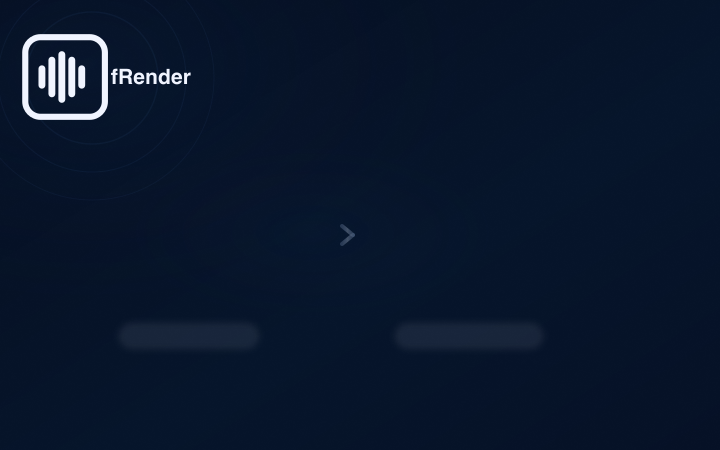
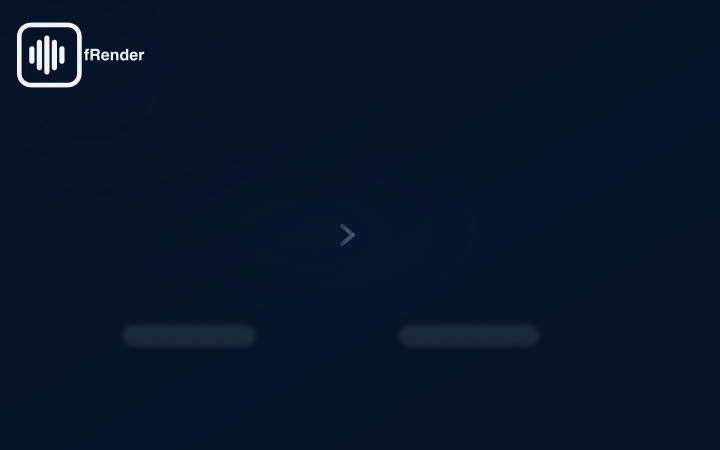
chore(dmg): final composition polish (brand scale + softer rings + minimal label pads)

Changed region(s): [[0.0, 0.0311, 0.275, 0.28]]

diff --git a/scripts/build-dmg-background.js b/scripts/build-dmg-background.js
@@ -24,8 +24,8 @@ function buildBaseSvg() {
         <stop offset="100%" stop-color="#071227"/>
       </linearGradient>
       <radialGradient id="brandGlow" cx="0.12" cy="0.14" r="0.55">
-        <stop offset="0%" stop-color="#14315a" stop-opacity="0.18"/>
-        <stop offset="55%" stop-color="#0f2850" stop-opacity="0.06"/>
+        <stop offset="0%" stop-color="#14315a" stop-opacity="0.12"/>
+        <stop offset="55%" stop-color="#0f2850" stop-opacity="0.03"/>
         <stop offset="100%" stop-color="#0a1b38" stop-opacity="0"/>
       </radialGradient>
       <radialGradient id="installZone" cx="0.46" cy="0.50" r="0.43">
@@ -39,7 +39,7 @@ function buildBaseSvg() {
         <stop offset="100%" stop-color="#bad4ff" stop-opacity="0.38"/>
       </linearGradient>
       <filter id="labelBlur" x="-40%" y="-120%" width="180%" height="340%">
-        <feGaussianBlur stdDeviation="3"/>
+        <feGaussianBlur stdDeviation="2"/>
       </filter>
     </defs>
 
@@ -47,20 +47,20 @@ function buildBaseSvg() {
     <rect x="0" y="0" width="${WIDTH}" height="${HEIGHT}" fill="url(#brandGlow)"/>
     <rect x="110" y="128" width="440" height="210" rx="36" fill="url(#installZone)"/>
 
-    <g opacity="0.07" stroke="#4b86d7" fill="none">
+    <g opacity="0.03" stroke="#4b86d7" fill="none">
       <circle cx="92" cy="78" r="66" stroke-width="1.4"/>
       <circle cx="92" cy="78" r="94" stroke-width="1"/>
       <circle cx="92" cy="78" r="122" stroke-width="0.8"/>
     </g>
 
-    <g opacity="0.49" stroke="url(#arrowStroke)" fill="none" stroke-linecap="round" stroke-linejoin="round">
+    <g opacity="0.53" stroke="url(#arrowStroke)" fill="none" stroke-linecap="round" stroke-linejoin="round">
       <path d="M ${MID_X - 24} ${ICON_Y} L ${MID_X + 24} ${ICON_Y}" stroke-width="4"/>
       <path d="M ${MID_X + 24} ${ICON_Y} L ${MID_X + 13} ${ICON_Y - 9}" stroke-width="4"/>
       <path d="M ${MID_X + 24} ${ICON_Y} L ${MID_X + 13} ${ICON_Y + 9}" stroke-width="4"/>
     </g>
 
-    <rect x="${ICON_APP_X - 70}" y="323" width="140" height="26" rx="13" fill="#edf5ff" fill-opacity="0.08" filter="url(#labelBlur)"/>
-    <rect x="${ICON_APPS_X - 74}" y="323" width="148" height="26" rx="13" fill="#edf5ff" fill-opacity="0.08" filter="url(#labelBlur)"/>
+    <rect x="${ICON_APP_X - 66}" y="325" width="132" height="21" rx="10.5" fill="#edf5ff" fill-opacity="0.09" filter="url(#labelBlur)"/>
+    <rect x="${ICON_APPS_X - 70}" y="325" width="140" height="21" rx="10.5" fill="#edf5ff" fill-opacity="0.09" filter="url(#labelBlur)"/>
   </svg>`;
 }
 
@@ -99,7 +99,7 @@ async function main() {
     .toBuffer();
 
   const lockup = await sharp(LOCKUP_SVG)
-    .resize({ width: 182 })
+    .resize({ width: 138 })
     .toColourspace('srgb')
     .png({ compressionLevel: 6, adaptiveFiltering: true })
     .toBuffer();
@@ -108,7 +108,7 @@ async function main() {
 
   await sharp(base)
     .composite([
-      { input: lockup, left: 16, top: 28, blend: 'over', opacity: 0.58 },
+      { input: lockup, left: 12, top: 18, blend: 'over', opacity: 0.92 },
       { input: noise.data, raw: noise.info, blend: 'overlay', opacity: 0.24 },
     ])
     .flatten({ background: '#071227' })
